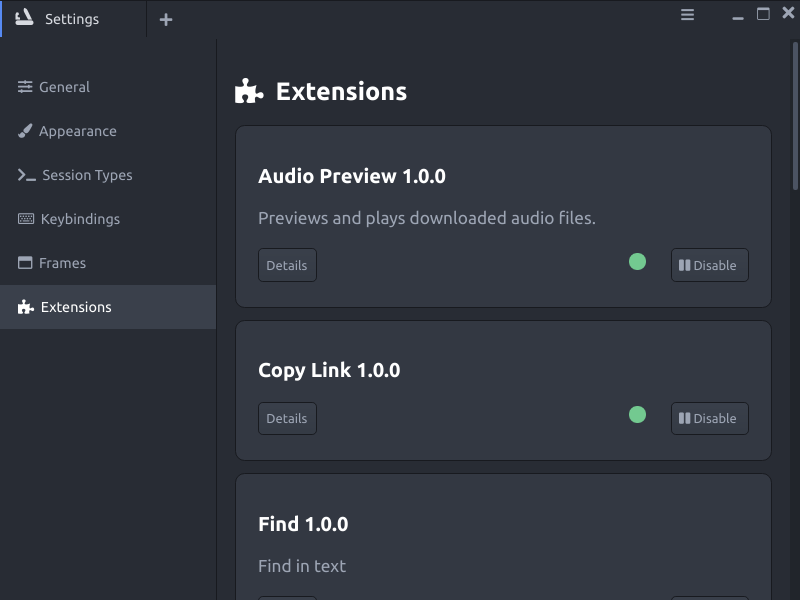
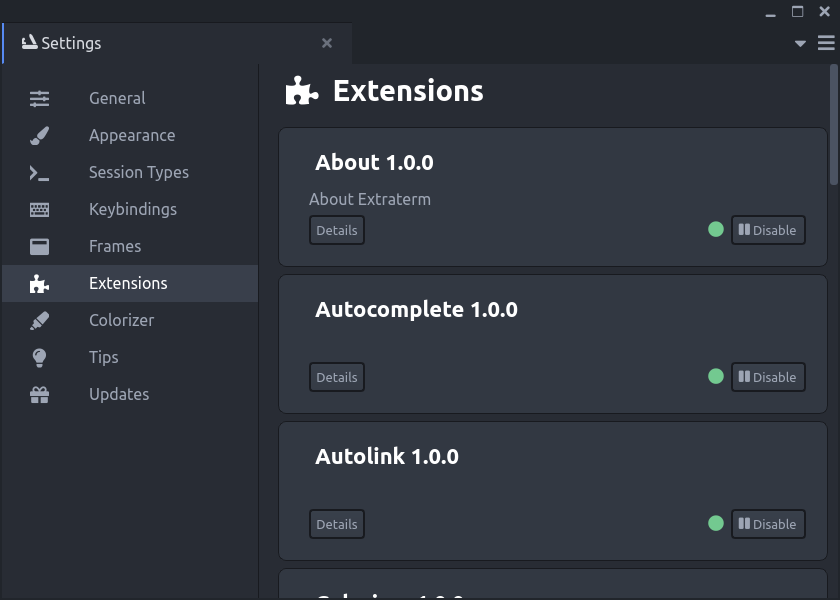
Updates to the Guide

diff --git a/docs/guide.md b/docs/guide.md
@@ -3,15 +3,11 @@
 - [Getting Started](#getting-started)
   - [Installation](#installation)
 - [Basics](#basics)
-  - [Cursor Mode](#cursor-mode)
-  - [Command Palette](#command-palette)
 - [Shell Integration](#shell-integration)
   - [The 'show' Command](#the-show-command)
   - [The 'from' Command](#the-from-command)
-  - [Executing Commands from Cursor Mode](#executing-commands-from-cursor-mode)
 - [Splits and Panes](#splits-and-panes)
   - [Drag and Drop](#drag-and-drop)
-- [Editing in Cursor Mode](#editing-in-cursor-mode)
 - [Viewing content with the Show Command](#viewing-content-with-the-show-command)
   - [Frames viewing Text](#frames-viewing-text)
 - [Settings](#settings)
@@ -20,13 +16,27 @@
   - [Appearance](#appearance)
     - [Terminal](#terminal)
     - [Interface](#interface)
-    - [Text Viewer](#text-viewer)
   - [Session Types](#session-types)
     - [Tab Title](#tab-title)
   - [Keybindings](#keybindings)
   - [Frames](#frames)
   - [Extensions](#extensions)
-- [Tips](#tips)
+  - [About](#about)
+  - [Autocomplete](#autocomplete)
+  - [Autolink](#autolink)
+  - [Colorizer](#colorizer)
+  - [Copy Block](#copy-block)
+  - [Copy Link](#copy-link)
+  - [Directory Commands](#directory-commands)
+  - [Find](#find)
+  - [Image Block](#image-block)
+  - [Insert Emoji](#insert-emoji)
+  - [Open Link](#open-link)
+  - [TLDR Pages](#tldr-pages)
+  - [Terminal Title](#terminal-title)
+  - [Tips](#tips)
+  - [Update Checker](#update-checker)
+- [Tips](#tips-1)
   - [Keyboard Shortcuts](#keyboard-shortcuts)
   - [Mouse selections when an app grabs the mouse](#mouse-selections-when-an-app-grabs-the-mouse)
   - [Changing where the configuration settings are stored](#changing-where-the-configuration-settings-are-stored)
@@ -46,40 +56,29 @@ Extraterm supports Linux, macOS, and Windows. The [download page](download.md) d
 
 # Basics
 
-When Extraterm starts it opens one tab and runs your default shell inside it. If you have used any terminal before, then the basic functionality will be familiar.
+When Extraterm starts it opens one tab and runs your default shell sessioninside it. If you have used any other terminal before, then this basic functionality will be familiar.
 
-Multiple terminals can be open at the same time in different tabs. The plus button at the top, next to the tabs, opens new terminal tabs (shortcut `Ctrl+Shift+T`). Close a tab by using the little cross icon/button on the right side of the tab, or just exit the shell. `Ctrl+Shift+Q` is the shortcut for closing a tab directly.
+New terminal sessions can be opened using the window or "hamburger" menu in the top right on the window. It also provides access to the Settings.
 
-Use the `Ctrl+,` and `Ctrl+.` shortcuts to move left and right between tabs.
+![Window Menu](window_menu.png)
+
+They open up in different tabs. A tab can be closed using the little cross button on the right side of the tab. The shortcut `Ctrl+Shift+Q` will close a tab immediately.
+
+Use the `Ctrl+,` and `Ctrl+.` shortcuts to navigate left and right between tabs.
 
 Selections can be made with the mouse and are automatically copied to the system clipboard. `Ctrl+Shift+C` will also copy a selection. `Ctrl+Shift+V`, `Ctrl+Insert` or the middle mouse button pastes the contents of the clipboard into the terminal.
 
 The scrollbar on the right or `Shift+PageUp` and `Shift+PageDown` let you can scroll through and view previous output.
 
-The "hamburger" menu in the top right corner of the Window provides access to new windows, new terminal tabs, and the Settings.
-
-The right mouse button opens context menus. The context menu for the plus button on the tab bar shows alternate terminal sessions. Tabs themselves also have options for customizing the tab. The contents of a terminal tab also supports context menus.
+The right mouse button on different elements in the window opens the context menu. Tabs themselves also have options for customizing the tab in their context menu. Terminal contents also have different options in the context menu.
 
 Files and directories can be dropped onto Extraterm terminals. The path of the dropped file or directory will be typed into the terminal.
 
-## Cursor Mode
-
-Extraterm features a cursor mode where you can navigate the screen and scrollback contents and select text in the terminal without having to reach for the mouse.
-
-To go into cursor mode press `Ctrl+Shift+Space`. The block cursor will remain in place but there will also be a blinking vertical bar cursor. This is Extraterm's cursor mode cursor. It works the same as the cursor in a typical desktop text editor. Cursor keys work the same and `shift` + cursor creates selections.
-
-`Ctrl+Shift+C` (or just `Ctrl+C`) copies the selection to the clipboard. The cursor can be placed using the mouse. When in cursor mode no keyboard input is sent to your shell.
-
-The `Ctrl+Shift+Space` shortcut acts as a toggle between cursor mode and normal terminal mode. Press it again to go back to terminal mode.
-
-See [Executing Commands from Cursor Mode](#executing-commands-from-cursor-mode) also.
-
-## Command Palette
-
-The Command Palette is a pop up menu of commands which can be easily searched and selected from via the keyboard. It grants direct access to all of Extraterm's commands and actions. Open it using `Ctrl+Shift+P`. Commands which are specific to the current context appear at the top of the menu. Cursor up/down and PageUp/PageDown keys move the selection. The `Enter` key executes the selected command, while the escape key closes the palette. The items in the menu can be filtered by entering search text.
+All of Extraterm's features and commands can be accessed via the Command Palette.
 
 ![Command palette](command_palette.png)
 
+The Command Palette is a pop up menu of commands which can be easily searched and selected from via the keyboard. It grants direct access to all of Extraterm's commands and actions. Open it using `Ctrl+Shift+P`. Commands which are specific to the current context appear at the top of the menu. Cursor up/down and PageUp/PageDown keys move the selection. The `Enter` key executes the selected command, while the escape key closes the palette. The items in the menu can be filtered by entering search text.
 
 -----------
 
@@ -160,21 +159,15 @@ With a shell pipe and `xargs` I can give the list of documents to the `wc` (word
 
 Using the `--save` or `-s` option `from` can directly write the frame contents to disk using the file's original filename.
 
-
-## Executing Commands from Cursor Mode
-
-Command output in a frame can be edited directly. Extraterm also has some shortcuts to make this capability even more useful.
-
-* `Ctrl+Enter` will type the currently selected text into the shell.
-* `Ctrl+Shift+Enter` will type the currently select text into the shell and press the enter key. Effectively it executes the selection in the shell. Use with care.
-
 -----------
 
 # Splits and Panes
 
-Each terminal is contained in its own tab. New tabs can be opened by clicking on the new tab button '+' up in the tab bar, or using `Ctrl+Shift+T`. Tabs can be 'split' half horizontally or vertically using the `Horizontal Split` and `Vertical Split` commands which can be found in the [Command Palette](#command-palette). When a tab is split, it is moved to the side and the Pane Menu appears in the remaining space or 'pane'. The menu allows you to create a new terminal, more splits or to close the pane.
+Each terminal is contained in its own tab. Tabs can be arranged, 'split', horizontally or vertically using the `Horizontal Split` and `Vertical Split` commands in the [Command Palette](#command-palette). When a tab is split, it is moved to the side and the Pane Menu appears in the remaining space or 'pane'. The menu allows you to create a new terminal, more splits or to close the pane.
 
 ![Tiling and panes](splits_and_panes.png)
+
+Tabs can be dragged in and out of windows into their own independent windows. They can also be dragged to split and tile them.
 
 ## Drag and Drop
 
@@ -184,13 +177,6 @@ Extraterm supports mouse based gestures for rearranging tabs in the tab bar, mov
 * Frames can be dragged by their title bars up into a group of tabs to move them out of their terminal and into their own tab.
 * The main content area of every tab can be split different ways depending on where a tab or frame is dropped. Drops towards the top or bottom will split it horizontally, while drops to the far left or right will split it vertically. A drop in the center of the content will simply move the tab or frame up into the tab group.
 * Frames can also be dragged right out of Extraterm and dropped on other applications which will accept text.
-
-
------------
-
-# Editing in Cursor Mode
-
-TODO
 
 -----------
 
@@ -210,12 +196,10 @@ The Settings tab is accessible via the "hamburger" menu in the top right corner 
 
 ![settings_general.png](settings_general.png)
 
-* **Show Tips** - Sets how often Tips are shown inside new terminals. Options are: *Everytime*, *Daily*, and *Never*.
 * **Max. Scrollback Lines** - Sets the maximum number of lines the scrollback area (the lines of text which have moved up out of the window) can be before rows are deleted.
 * **Max. Scrollback Frames** - Sets the maximum number of frames permitted in the scrollback area before they are deleted.
 * **Automatically copy selection to clipboard** - If this is on, then any selection is automatically copied to the system clipboard.
 * **Close the window after closing the last tab** - If this is on, then the window will automatically close once the last tab has been closed. Otherwise the window will remain open.
-* **Reduce graphic effects** - Some graphics hardware and drivers can show incorrect colors in some parts of the Extraterm interface. Turning this on will reduce the use of graphic features which may cause trouble.
 
 ### Mouse Button Actions
 
@@ -243,7 +227,6 @@ Settings related to how terminal tabs and their contents appear.
 * **Enable ligatures** - If your terminal font support ligatures and this is enabled, then ligatures will be applied to text inside the terminal. See "What are ligatures?" below.
 * **Theme** - The color theme for terminals can be selected here. The button "User themes" opens the directory in the system file manger where your own theme files can be placed. The reload button rescans this directory. The list of different theme file formats is shown below the buttons.
 * **Cursor Style** - Sets the cursor style to use inside terminals. Options are *block*, *lower bar*, and *vertical bar*.
-* **Blink Cursor** - If this on, then cursor will blink. Defaults to off.
 * **Margin** - Sets the size of the margin surrounding the terminal text and edge of the tab containing it. Options are *None*, *Thin*, *Normal*, and *Thick*.
 * **Preview** - The colored text below the options show a preview of the selected theme, font, cursor and ligature settings.
 
@@ -255,22 +238,10 @@ Ligatures are visual replacements for groups of characters (actually called "gly
 
 Settings related to the general appearance of the whole application.
 
-![settings_appearance_2.png](settings_appearance_2.png)
-
-* **Theme** - The theme for the interface. Defaults to *Two Dark UI theme*, a modern dark and mostly flat theme which also integrates with the terminal color theme. It is based on the *One Dark* them from the Atom text editor. Other themes are *Atomic Light UI theme* and *Atomic Dark UI theme* which are also based on similar themes from Atom.
 * **Zoom** - Increases or decreases the size of all elements and text in the user interface of the whole application.
-* **Window Title Bar** - Sets type of title bar for the Extraterm window. *Native* is just the normal operating system title bar. *Theme* is a themed title bar. *Compact Theme* is also themed but is more compact with tabs integrated into the bar itself and the window controls.
+* **Window Title Bar** - Sets type of title bar for the Extraterm window. *Native* is just the normal operating system title bar. *Theme* is a themed title bar. *Theme Compact* is also themed but is more compact and doesn't show the window title.
 * **Show icon in system tray** - If this is on, then Extraterm icon will appear in the desktop tray.
 * **Minimize window to tray** - If this is on, then the Extraterm window will disappear from your desktop taskbar when it is minimized. The window can be shown again by using the icon in the system tray.
-
-
-### Text Viewer
-
-Extraterm's `show` command can display text in its own custom viewer. This viewer supports syntax highlighting and has its own themes.
-
-* **Theme** - The theme for the text viewer. The button "User themes" opens the directory in the system file manger where your own theme files can be placed. The reload button rescans this directory. The list of different theme file formats is shown below the buttons.
-* **Preview** - Preview text is also shown. Example text for different file types can be selected.
-
 
 ## Session Types
 
@@ -353,6 +324,53 @@ The details button on each extension card gives more information about how the e
 
 Extensions can be enabled or disabled by the button in the bottom right corner of the extension card.
 
+## About
+
+This extension simply adds the About tab. Yes, the About tab is just an extension.
+
+## Autocomplete
+
+## Autolink
+
+Autolink detects links in the terminal output and turns them into real links which have proper context menus and can be opened using Ctrl+Click.
+
+## Colorizer
+
+Colorizer scans the terminal output for certain patterns and words and colors them. This is useful for highlighting important text in command output such as "error" or "warning".
+
+![settings_colorizer.png](settings_colorizer.png)
+
+This extension has an area in the Setting tabs where it can be configured. The whole extension can be easily enabled/disabled using the checkbox. Most of the configuration is the list of rules defining text pattersn to match and highligt.
+
+
+
+## Copy Block
+
+## Copy Link
+
+## Directory Commands
+
+## Find
+
+## Image Block
+
+
+## Insert Emoji
+
+
+## Open Link
+
+## TLDR Pages
+
+## Terminal Title
+
+## Tips
+
+![settings_tips.png](settings_tips.png)
+
+## Update Checker
+
+![settings_updates.png](settings_updates.png)
 
 -----------
 
